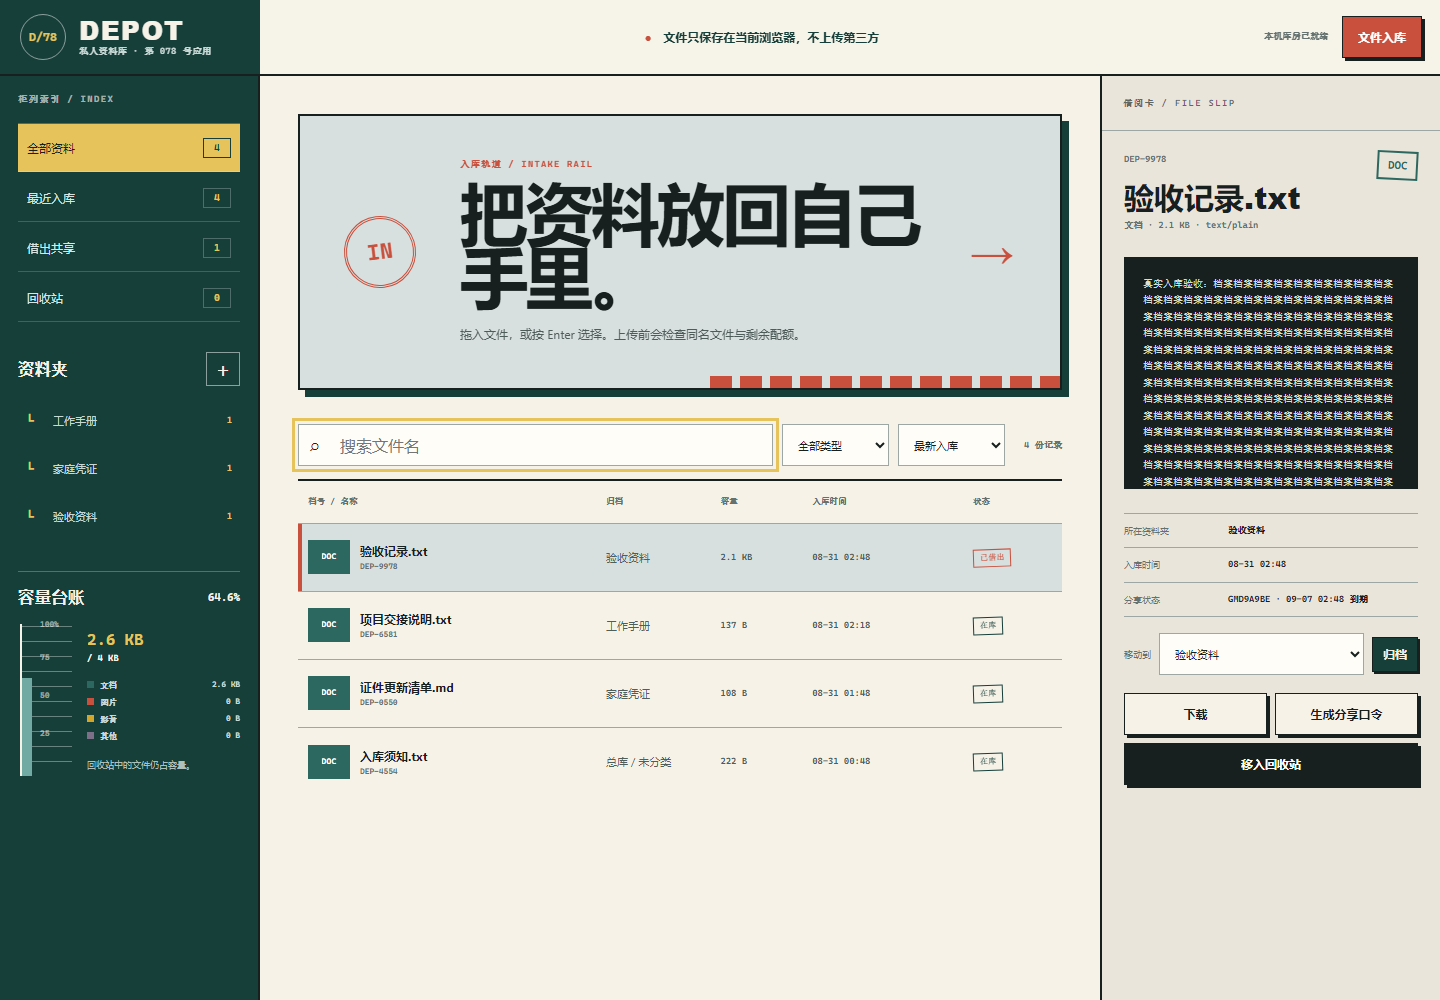
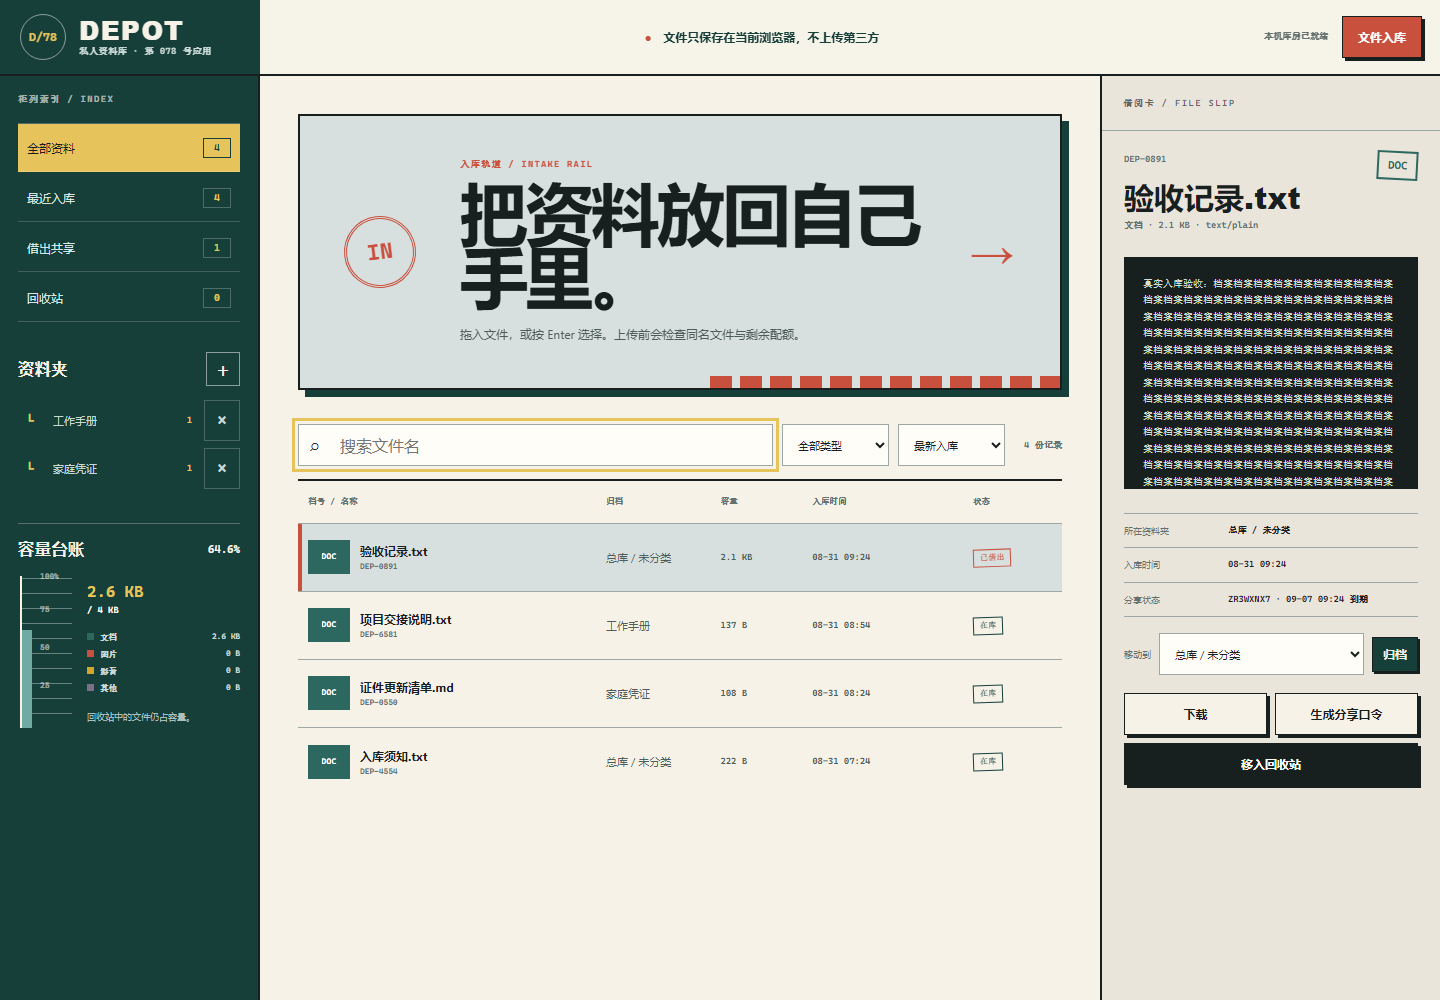
feat: add app 078 folder deletion

diff --git a/apps/078-private-cloud/app.js b/apps/078-private-cloud/app.js
@@ -51,6 +51,7 @@
       'move-folder', 'move-button', 'active-actions', 'trash-actions', 'download-button',
       'share-button', 'trash-button', 'restore-button', 'destroy-button',
       'mobile-detail-button', 'folder-dialog', 'folder-form', 'folder-name',
+      'folder-close-button', 'folder-cancel-button',
       'share-dialog', 'share-days', 'share-result', 'share-link', 'share-token',
       'create-share-button', 'copy-share-button', 'revoke-share-button',
       'confirm-dialog', 'confirm-title', 'confirm-copy', 'confirm-button',
@@ -142,7 +143,10 @@
     refs['folder-list'].innerHTML = state.folders.map((folder) => {
       const count = state.files.filter((file) => !file.deletedAt && file.folderId === folder.id).length;
       const active = state.view === 'folder' && state.folderId === folder.id;
-      return `<button class="folder-button${active ? ' is-active' : ''}" data-folder-id="${escapeHtml(folder.id)}" type="button" aria-current="${active ? 'page' : 'false'}"><span>${escapeHtml(folder.name)}</span><b>${count}</b></button>`;
+      return `<div class="folder-row">
+        <button class="folder-button${active ? ' is-active' : ''}" data-folder-id="${escapeHtml(folder.id)}" type="button" aria-current="${active ? 'page' : 'false'}"><span>${escapeHtml(folder.name)}</span><b>${count}</b></button>
+        <button class="folder-delete-button" data-delete-folder-id="${escapeHtml(folder.id)}" type="button" aria-label="删除资料夹 ${escapeHtml(folder.name)}" title="删除资料夹">×</button>
+      </div>`;
     }).join('');
   }
 
@@ -321,6 +325,24 @@
     toast(`资料夹“${cleanName}”已建立`);
   }
 
+  function requestFolderDeletion(folderId) {
+    const folder = state.folders.find((item) => item.id === folderId);
+    if (!folder) return;
+    const affectedCount = state.files.filter((file) => file.folderId === folder.id).length;
+    const copy = affectedCount
+      ? `“${folder.name}”内的 ${affectedCount} 份资料将移回总库，文件内容和回收状态都会保留。`
+      : `“${folder.name}”是空资料夹，删除后无法恢复。`;
+    openConfirm(`删除资料夹“${folder.name}”？`, copy, async () => {
+      await Storage.deleteFolder(folder.id);
+      if (state.view === 'folder' && state.folderId === folder.id) {
+        state.view = 'all';
+        state.folderId = null;
+      }
+      await refresh({ selectId: state.selectedId });
+      toast(affectedCount ? `资料夹已删除，${affectedCount} 份资料已移回总库` : '空资料夹已删除');
+    }, '删除资料夹');
+  }
+
   async function updateSelected(mutator, message) {
     const file = state.files.find((item) => item.id === state.selectedId);
     if (!file) return;
@@ -428,6 +450,11 @@
       render();
     });
     refs['folder-list'].addEventListener('click', (event) => {
+      const deleteButton = event.target.closest('[data-delete-folder-id]');
+      if (deleteButton) {
+        requestFolderDeletion(deleteButton.dataset.deleteFolderId);
+        return;
+      }
       const button = event.target.closest('[data-folder-id]');
       if (!button) return;
       state.view = 'folder';
@@ -451,8 +478,10 @@
       refs['folder-dialog'].showModal();
       setTimeout(() => refs['folder-name'].focus(), 0);
     });
+    const closeFolderDialog = () => refs['folder-dialog'].close('cancel');
+    refs['folder-close-button'].addEventListener('click', closeFolderDialog);
+    refs['folder-cancel-button'].addEventListener('click', closeFolderDialog);
     refs['folder-form'].addEventListener('submit', (event) => {
-      if (event.submitter && event.submitter.value === 'cancel') return;
       event.preventDefault();
       const name = refs['folder-name'].value.trim();
       if (!name) return;

diff --git a/apps/078-private-cloud/styles.css b/apps/078-private-cloud/styles.css
@@ -65,12 +65,15 @@ button:disabled { cursor: not-allowed; opacity: .55; }
 .section-heading > span { font: 800 11px/1 var(--mono); }
 .icon-button { width: 34px; height: 34px; border: 1px solid rgba(255,255,255,.5); color: var(--paper); background: transparent; font-size: 20px; line-height: 1; }
 .folder-list { display: grid; gap: 7px; margin-top: 14px; }
+.folder-row { min-width: 0; display: grid; grid-template-columns: minmax(0,1fr) 36px; gap: 4px; }
 .folder-button { width: 100%; min-height: 41px; display: grid; grid-template-columns: 19px minmax(0,1fr) auto; align-items: center; gap: 8px; border: 0; padding: 6px 8px; color: #c8d8d5; background: transparent; text-align: left; font-size: 11px; }
 .folder-button::before { content: "└"; color: var(--mustard); font: 700 12px/1 var(--mono); }
 .folder-button span { overflow: hidden; text-overflow: ellipsis; white-space: nowrap; }
 .folder-button b { color: var(--mustard); font: 700 9px/1 var(--mono); }
 .folder-button:hover, .folder-button.is-active { color: var(--ink); background: var(--mist); }
 .folder-button.is-active b { color: var(--brick); }
+.folder-delete-button { min-width: 36px; min-height: 41px; border: 1px solid rgba(255,255,255,.22); color: #c8d8d5; background: transparent; font: 700 17px/1 var(--mono); }
+.folder-delete-button:hover { color: #fff; border-color: var(--brick); background: var(--brick); }
 
 .capacity-ledger { position: relative; min-height: 230px; margin-top: 34px; padding-top: 17px; border-top: 1px solid rgba(255,255,255,.26); }
 .capacity-ruler { position: absolute; top: 52px; left: 2px; width: 52px; height: 152px; border-left: 2px solid var(--paper); background: repeating-linear-gradient(to top, transparent 0 14px, rgba(255,255,255,.35) 14px 15px); }
@@ -220,7 +223,9 @@ body.is-busy button { pointer-events: none; }
   .folder-section { margin-top: 14px; }
   .section-heading h2 { font-size: 13px; }
   .folder-list { display: flex; overflow-x: auto; margin-top: 9px; }
+  .folder-row { min-width: max-content; grid-template-columns: minmax(0,1fr) 44px; }
   .folder-button { min-width: max-content; width: auto; border: 1px solid rgba(255,255,255,.24); }
+  .folder-delete-button { min-width: 44px; min-height: 44px; }
   .capacity-ledger { min-height: auto; margin-top: 14px; padding-top: 13px; }
   .capacity-ruler, .usage-key, .capacity-note { display: none; }
   .usage-copy { margin: 8px 0 0; }

diff --git a/apps/078-private-cloud/index.html b/apps/078-private-cloud/index.html
@@ -159,12 +159,12 @@
 
   <dialog class="form-dialog" id="folder-dialog" aria-labelledby="folder-dialog-title">
     <form method="dialog" id="folder-form">
-      <div class="dialog-heading"><span>NEW DRAWER</span><button value="cancel" aria-label="关闭">×</button></div>
+      <div class="dialog-heading"><span>NEW DRAWER</span><button id="folder-close-button" type="button" aria-label="关闭">×</button></div>
       <h2 id="folder-dialog-title">新建资料夹</h2>
       <label for="folder-name">资料夹名称</label>
       <input id="folder-name" name="folderName" maxlength="40" autocomplete="off" required>
       <p class="form-hint">名称只保存在当前浏览器。</p>
-      <div class="dialog-actions"><button class="secondary-button" value="cancel">取消</button><button class="primary-button" value="default">建立资料夹</button></div>
+      <div class="dialog-actions"><button class="secondary-button" id="folder-cancel-button" type="button">取消</button><button class="primary-button" value="default">建立资料夹</button></div>
     </form>
   </dialog>
 

diff --git a/apps/078-private-cloud/storage.js b/apps/078-private-cloud/storage.js
@@ -104,6 +104,19 @@
     return useStore(['folders'], 'readwrite', (transaction) => transaction.objectStore('folders').put(folder));
   }
 
+  function deleteFolder(id) {
+    return useStore(['files', 'folders'], 'readwrite', (transaction) => {
+      transaction.objectStore('folders').delete(id);
+      const request = transaction.objectStore('files').index('folderId').openCursor(id);
+      request.onsuccess = () => {
+        const cursor = request.result;
+        if (!cursor) return;
+        cursor.update({ ...cursor.value, folderId: 'root', updatedAt: new Date().toISOString() });
+        cursor.continue();
+      };
+    });
+  }
+
   async function getSetting(key) {
     const db = await open();
     const record = await requestAsPromise(db.transaction('settings', 'readonly').objectStore('settings').get(key));
@@ -189,6 +202,7 @@
     deleteFile,
     listFolders,
     putFolder,
+    deleteFolder,
     getSetting,
     setSetting,
     seed,

diff --git a/docs/plans/2026-08-31-app-078-private-cloud-design.md b/docs/plans/2026-08-31-app-078-private-cloud-design.md
@@ -4,7 +4,7 @@
 
 78 号应用命名为 **DEPOT/78**，服务于希望把少量私密资料留在自己设备上，并能清楚知道“存了什么、占了多少、分享给谁”的个人用户。页面只承诺浏览器本地资料库：文件正文进入 IndexedDB，文件夹、分享口令、回收站和界面偏好同样保存在当前浏览器，不上传到第三方，也不声称具备账号、跨设备同步或真正的公网分享能力。公开 GitHub Pages 版本会在页首和分享对话框中明确说明这一边界。
 
-核心路径是“入库 → 归档 → 查找 → 借出 → 回收”。用户可拖放或选择多个文件，系统在写入前检查单文件大小、逻辑配额、空文件名和同目录重名；成功后可按文件夹、类型、共享状态和回收站筛选，搜索名称，切换排序，在右侧检视卡中预览支持的图片、音视频和文本。下载使用浏览器 Blob URL，删除先进入回收站，可恢复或永久删除。分享会生成本地口令和带 URL fragment 的链接，并支持 1、7、30 天或长期有效；打开链接时仅在同一浏览器资料库中解析，失效或缺失会给出明确恢复建议。
+核心路径是“入库 → 归档 → 查找 → 借出 → 回收”。用户可拖放或选择多个文件，系统在写入前检查单文件大小、逻辑配额、空文件名和同目录重名；成功后可按文件夹、类型、共享状态和回收站筛选，搜索名称，切换排序，在右侧检视卡中预览支持的图片、音视频和文本。资料夹可删除，夹内文件会在同一存储事务中迁回总库并保留原回收状态。下载使用浏览器 Blob URL，删除先进入回收站，可恢复或永久删除。分享会生成本地口令和带 URL fragment 的链接，并支持 1、7、30 天或长期有效；打开链接时仅在同一浏览器资料库中解析，失效或缺失会给出明确恢复建议。
 
 逻辑配额固定为 512 MiB，不冒充浏览器真实磁盘上限。容量台账按文档、图片、媒体和其他类型显示真实已存字节；测试模式可使用更小配额验证拒绝路径。首访会写入三份可下载的示例文本资料，帮助用户立即理解流程，之后不会重复覆盖。所有销毁操作均需明确二次确认。
 

diff --git a/apps/078-private-cloud/README.md b/apps/078-private-cloud/README.md
@@ -28,6 +28,7 @@ python -m http.server 4178
 
 - 拖放或批量选择文件；同目录重名会自动追加序号。
 - 按全部、最近、共享、回收站、资料夹和文件类型筛选，并按时间、名称或大小排序。
+- 可删除空或非空资料夹；夹内文件会安全迁回总库，回收站状态保持不变。
 - 图片、音频、视频和常见文本可在借阅卡中预览；其他格式保留下载入口。
 - 分享口令支持 1、7、30 天或长期有效，可重新生成或撤销。
 - 删除先进入回收站，可恢复；永久删除需要二次确认。
@@ -52,4 +53,3 @@ node apps/078-private-cloud/qa/browser-smoke.mjs
 ```
 
 浏览器冒烟测试使用临时 Chrome/Edge 用户目录和独立 IndexedDB 名称，真实覆盖上传、预览、资料夹、移动、分享、回收、恢复、刷新持久化、配额拒绝、桌面/移动布局和运行时错误，并把验收截图写入 `assets/`。
-
